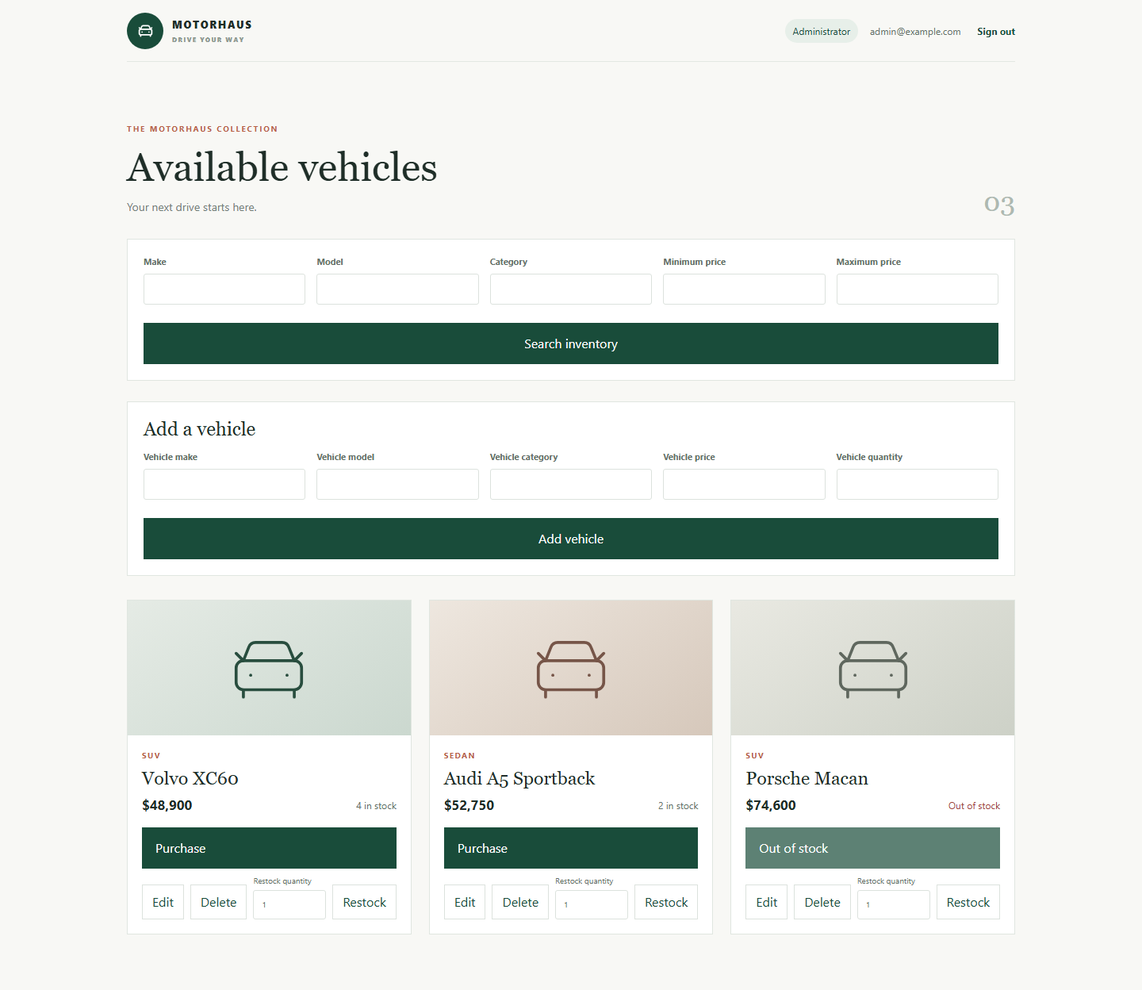
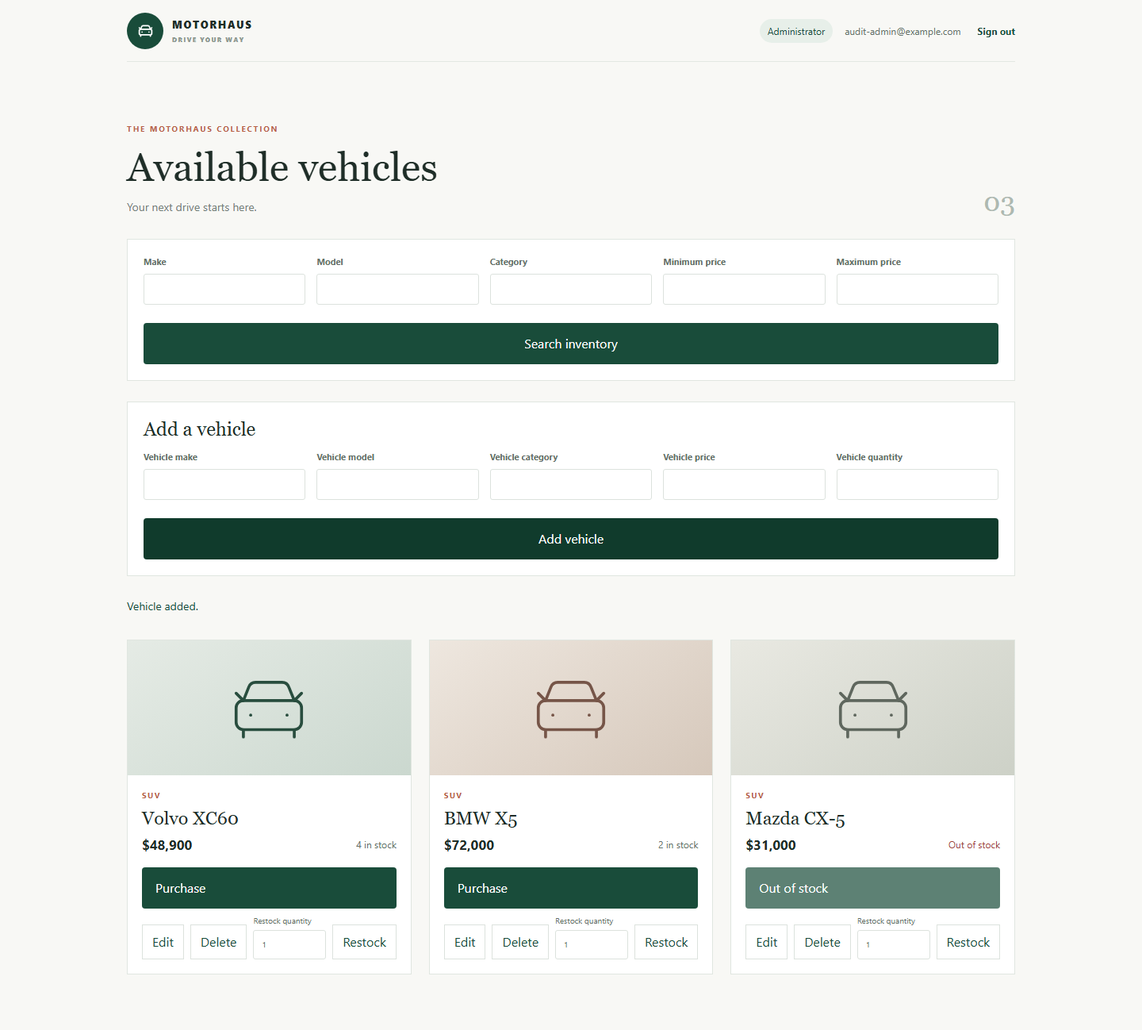
docs: complete final assessment audit

diff --git a/README.md b/README.md
@@ -2,6 +2,8 @@
 
 An inventory and purchasing application for a small car dealership. The React single page app uses a FastAPI JSON API, SQLAlchemy persistence, Alembic migrations, hashed account passwords, and signed bearer tokens.
 
+The public repository's default branch is `submission/tdd-kata`, so the repository root opens this submission.
+
 ## Screenshots
 
 Captured from the running app on the local development server:
@@ -17,7 +19,7 @@ Captured from the running app on the local development server:
 - `frontend/src`: React SPA, accessible forms, inventory search and admin workflows.
 - `.github/workflows/ci.yml`: backend and frontend checks on pushes and pull requests.
 
-Purchases use a single conditional SQL `UPDATE` (`quantity > 0`) so competing requests cannot decrement below zero. Restock also uses a conditional update and stock ceiling. SQLite is the local default; PostgreSQL is supported through SQLAlchemy and the included psycopg driver.
+Purchases use a single conditional SQL `UPDATE` (`quantity > 0`) so competing requests cannot decrement below zero. Restock also uses a conditional update and stock ceiling. SQLite is the local default and satisfies the persistent-database requirement. PostgreSQL configuration is optional and has not been tested.
 
 ## Run locally
 
@@ -31,16 +33,28 @@ py -3.12 -m venv .venv
 .\.venv\Scripts\Activate.ps1
 python -m pip install -r requirements.txt -r requirements-dev.txt
 $env:DATABASE_URL = "sqlite:///./inventory.db"
-$env:SECRET_KEY = "replace-with-a-long-random-secret"
-$env:BOOTSTRAP_ADMIN_EMAIL = "admin@example.com"
+$env:ENVIRONMENT = "development"
+# Optional in explicit development mode; production must provide a strong value.
+$env:SECRET_KEY = "development-key-change-me"
 $env:FRONTEND_ORIGIN = "http://localhost:5173"
 alembic upgrade head
+python -m app.admin_cli
 uvicorn app.main:app --reload
 ```
 
-Register using the configured bootstrap admin email to create the first administrator. Use another email for customer access. Set `DATABASE_URL=postgresql+psycopg://user:password@localhost:5432/dealership` for PostgreSQL. The default SQLite URL persists in `backend/inventory.db`.
+The offline admin command prompts for an email and password twice. It creates an administrator or promotes an existing account and sets the password entered at the prompt. Public registration always creates a customer, including when its email matches an administrator's address. Register customer accounts through the SPA or `POST /api/auth/register`.
 
-`FRONTEND_ORIGIN` configures the additional permitted browser origin; localhost and loopback Vite origins are included for development. Keep the secret key private and set `ENVIRONMENT=production` when deploying so a missing default secret fails closed.
+Configuration:
+
+| Variable | Local behavior | Production behavior |
+| --- | --- | --- |
+| `ENVIRONMENT` | Set explicitly to `development` to permit the local fallback key. | Defaults to the secure non-development policy when unset; set to `production`. |
+| `SECRET_KEY` | Optional only when `ENVIRONMENT=development`; set your own value to keep local tokens stable. | Required. Use at least 32 characters with at least 12 distinct characters; known defaults and placeholder text are rejected. |
+| `DATABASE_URL` | Defaults to persistent `sqlite:///./inventory.db` (`backend/inventory.db`). | Set to the chosen SQLAlchemy database URL. PostgreSQL uses `postgresql+psycopg://user:password@localhost:5432/dealership`; PostgreSQL was not tested. |
+| `FRONTEND_ORIGIN` | Defaults to `http://localhost:5173`; localhost and loopback Vite origins are also allowed. | Set to the deployed SPA origin. |
+| `VITE_API_URL` | Optional; empty uses the Vite `/api` proxy to `http://127.0.0.1:8000`. | Set the public API origin when the SPA and API are served separately. |
+
+To create a production key locally, run `python -c "import secrets; print(secrets.token_hex(32))"` and place the result in the deployment secret store. Never commit the generated key.
 
 Frontend (a second terminal):
 
@@ -54,28 +68,29 @@ Vite proxies `/api` to `http://127.0.0.1:8000` during local development. To use 
 
 ## API overview
 
-All routes are under `/api`. Registration is public; all inventory reads/writes and purchases require `Authorization: Bearer <token>`. Delete and restock require the administrator role.
+Registration and login are public. Every vehicle and inventory route requires `Authorization: Bearer <token>`. Delete and restock additionally require an administrator.
 
 | Method | Path | Access | Purpose |
 | --- | --- | --- | --- |
-| POST | `/auth/register` | Public | Register email/password |
-| POST | `/auth/login` | Public | OAuth form login; returns JWT and role flag |
-| GET | `/vehicles` | Authenticated | List or filter by make, model, category, min_price, max_price |
-| POST | `/vehicles` | Authenticated | Add vehicle |
-| PUT | `/vehicles/{id}` | Authenticated | Update vehicle |
-| DELETE | `/vehicles/{id}` | Admin | Remove vehicle |
-| POST | `/vehicles/{id}/restock` | Admin | Add stock |
-| POST | `/vehicles/{id}/purchase` | Authenticated | Decrement one available unit safely |
+| POST | `/api/auth/register` | Public | Register email/password; new accounts are customers |
+| POST | `/api/auth/login` | Public | OAuth form login; returns JWT and role flag |
+| GET | `/api/vehicles` | Authenticated | List inventory; supports `make`, `model`, `category`, `min_price`, and `max_price` filters |
+| GET | `/api/vehicles/search` | Authenticated | Search inventory by `make`, `model`, `category`, `min_price`, and `max_price` |
+| POST | `/api/vehicles` | Authenticated | Add vehicle |
+| PUT | `/api/vehicles/{id}` | Authenticated | Update vehicle |
+| DELETE | `/api/vehicles/{id}` | Admin | Remove vehicle |
+| POST | `/api/vehicles/{id}/restock` | Admin | Add stock within the configured stock limit |
+| POST | `/api/vehicles/{id}/purchase` | Authenticated | Decrement one available unit safely |
 
 Vehicle input validates non-empty make/model/category, positive price, integer quantity, bounded field sizes and unique database IDs. Out-of-stock purchases return HTTP 409; missing items return 404.
 
 ## Tests and evidence
 
-Run backend checks from `backend`: `$env:PYTHONPATH='.'; python -m pytest -q`, `ruff check app tests`, and `alembic upgrade head`. Run frontend checks from `frontend`: `pnpm test`, `pnpm lint`, `pnpm build`. Exact observed commands, results, warnings and currently unverified checks are in [TEST_REPORT.md](TEST_REPORT.md). Requirement evidence is mapped in [REQUIREMENTS_CHECKLIST.md](REQUIREMENTS_CHECKLIST.md). Actual test-first commit IDs and red/green outcomes are in [TDD_LOG.md](TDD_LOG.md).
+Run backend checks from `backend`: `$env:PYTHONPATH='.'; .\.venv\Scripts\python.exe -m pytest --cov=app --cov-report=term-missing`, `.\.venv\Scripts\ruff.exe check app tests`, and `$env:DATABASE_URL='sqlite:///./fresh-check.db'; .\.venv\Scripts\alembic.exe upgrade head`. Run frontend checks from `frontend`: `pnpm test`, `pnpm lint`, `pnpm build`. Exact observed commands, results, warnings and unverified checks are in [TEST_REPORT.md](TEST_REPORT.md). Requirement evidence is mapped in [REQUIREMENTS_CHECKLIST.md](REQUIREMENTS_CHECKLIST.md). Actual test-first commit IDs and red/green outcomes are in [TDD_LOG.md](TDD_LOG.md).
 
 ## My AI Usage
 
-ChatGPT helped prepare the implementation prompt. OpenAI Codex in the desktop app helped implement and test the project, including its API, migration, SPA, backend and frontend tests, CI, and evidence documents. Codex also ran the recorded checks and inspected the Git state. The tools used included PowerShell shell commands and patch editing, the workspace Python and pnpm runtimes, Playwright for genuine browser screenshots, the document-reading workflow for the supplied assessment, Git, and the GitHub connector to inspect repository metadata and Actions runs. `PROMPTS.md` contains the supplied link to the Codex build and verification conversation. No original shareable ChatGPT conversation record was supplied for `PROMPTS.md`. The Git commit trailers identify AI-assisted commits as `OpenAI Codex <ai@users.noreply.github.com>`.
+ChatGPT helped prepare the implementation prompt. OpenAI Codex in the desktop app helped implement and test the project, including its API, migrations, SPA, backend and frontend tests, CI, and evidence documents. Codex also ran the recorded checks, captured screenshots with Playwright, inspected Git state, and verified the GitHub repository and Actions results with the GitHub connector and the repository's saved Git credential. The tools used included PowerShell shell commands and patch editing, the workspace Python and pnpm runtimes, Playwright for genuine browser screenshots, the document-reading workflow for the supplied assessment, Git, and GitHub's authenticated API for repository settings. [PROMPTS.md](PROMPTS.md) contains the supplied link to the Codex build and verification conversation. No original shareable ChatGPT conversation record was supplied for `PROMPTS.md`. The Git commit trailers identify AI-assisted commits as `OpenAI Codex <ai@users.noreply.github.com>`.
 
 **Personal reflection (please review before submission):**
 

diff --git a/TEST_REPORT.md b/TEST_REPORT.md
@@ -36,17 +36,17 @@ Package-install warnings observed: deprecated `eslint@9.19.0` and transitive `wh
 
 GitHub Actions run [40179145568](https://github.com/shashank-bhat10/car-dealership-inventory-assessment/actions/runs/40179145568) on `ce37690`: frontend job passed; backend Ruff passed; backend pytest collection failed because `httpx` was missing; Alembic skipped. After pinning `httpx==0.28.1`, clean local `.venv` tests passed. GitHub Actions run [40179376846](https://github.com/shashank-bhat10/car-dealership-inventory-assessment/actions/runs/40179376846) on `591a679`: frontend job and backend Ruff passed; pytest collection failed again because the `app` package was not importable in the runner; Alembic skipped. Added job-level `PYTHONPATH: .`; run [40179459445](https://github.com/shashank-bhat10/car-dealership-inventory-assessment/actions/runs/40179459445) on `24f8d1d` passed both jobs. Backend Ruff passed, 19 tests passed with 97% coverage, Alembic passed; frontend install, 8 tests, lint, and production build passed.
 
-Warnings in successful CI run: Starlette's `anyio.abc.BlockingPortal` deprecation; GitHub runner Node.js deprecations from `actions/checkout@v4`, `actions/setup-python@v5`, `actions/setup-node@v4`, and `pnpm/action-setup@v4`; Node deprecations `DEP0040` (`punycode`) and `DEP0169` (`url.parse`) from action tooling. These warnings were not suppressed. Run [40179570241](https://github.com/shashank-bhat10/car-dealership-inventory-assessment/actions/runs/40179570241) on commit `fea340d32a758e95c9d01b8b184a6593d115a951` completed successfully; both backend and frontend jobs passed. That run is the last completed remote run before the final-audit commits. Local fresh SQLite migration passed. PostgreSQL service availability was not established; PostgreSQL behavior remains unverified.
+Warnings in successful CI run: Starlette's `anyio.abc.BlockingPortal` deprecation; GitHub runner Node.js deprecations from `actions/checkout@v4`, `actions/setup-python@v5`, `actions/setup-node@v4`, and `pnpm/action-setup@v4`; Node deprecations `DEP0040` (`punycode`) and `DEP0169` (`url.parse`) from action tooling. These warnings were not suppressed. Run [40179570241](https://github.com/shashank-bhat10/car-dealership-inventory-assessment/actions/runs/40179570241) on commit `fea340d32a758e95c9d01b8b184a6593d115a951` completed successfully; both backend and frontend jobs passed. Later successful runs were [40181495523](https://github.com/shashank-bhat10/car-dealership-inventory-assessment/actions/runs/40181495523) on `5e35b27` and [40182187248](https://github.com/shashank-bhat10/car-dealership-inventory-assessment/actions/runs/40182187248) on `efe77dd42af1f8d7ce04633127ebc50a03d7c8b3`. Run `40182187248` is the latest successful remote run before this local audit push. PostgreSQL service availability was not established; PostgreSQL behavior remains unverified.
 
 ## Final-audit local rerun (2026-10-25)
 
-Commands were run from the `backend` and `frontend` directories of branch `submission/tdd-kata` after the inventory retry and trailing-whitespace corrections:
+This earlier rerun was performed before the later security, migration, and final frontend audit additions:
 
 | Exact command | Observed result |
 | --- | --- |
 | `$env:PYTHONPATH='.'; .\.venv\Scripts\python.exe -m pytest -q` | **19 passed**, 1 upstream Starlette/AnyIO `BlockingPortal` deprecation warning, 4.85s. |
 | `.\.venv\Scripts\python.exe -m ruff check app tests` | **All checks passed!** |
-| `$env:DATABASE_URL='sqlite:///./fresh-final-audit-20261025-final2.db'; .\.venv\Scripts\python.exe -m alembic -c alembic.ini upgrade head` | **Passed**; applied `0001_initial` to a fresh SQLite file. PostgreSQL was not tested. |
+| `$env:DATABASE_URL='sqlite:///./fresh-final-audit-20261025-final2.db'; .\.venv\Scripts\python.exe -m alembic -c alembic.ini upgrade head` | **Passed** at that earlier point; applied `0001_initial` to a fresh SQLite file. The later final audit below supersedes this result and includes `0002_vehicle_constraints`. PostgreSQL was not tested. |
 | `pnpm test` | **14 passed**, 1 test file, 2.00s. |
 | `pnpm lint` | **Passed**, no findings. |
 | `pnpm build` | **Passed**, Vite transformed 1,579 modules; CSS 10.82 kB and JS 196.98 kB before gzip. |
@@ -54,7 +54,23 @@ Commands were run from the `backend` and `frontend` directories of branch `submi
 
 The final-audit test-first red run was `pnpm exec vitest run src/App.test.jsx`: **13 passed, 1 failed** at the new check that an inventory error must not display the empty state. After the error/retry implementation, the same command reported **14 passed**. The exact red and green commit pair is recorded in `TDD_LOG.md`. A later final branch-range diff check found two extra blank lines at EOF; they were removed, and the branch-range check was rerun. No PostgreSQL service test or screen-reader/device compatibility matrix was run.
 
-Commit [`5e35b27a58e0b5c4cf129e92bce4df6acf50a737`](https://github.com/shashank-bhat10/car-dealership-inventory-assessment/commit/5e35b27a58e0b5c4cf129e92bce4df6acf50a737) on `submission/tdd-kata` passed GitHub Actions run [40181495523](https://github.com/shashank-bhat10/car-dealership-inventory-assessment/actions/runs/40181495523), completed 2026-10-25. Both jobs succeeded: backend Ruff, pytest with coverage, and Alembic migration; frontend tests, lint, and production build. The final checklist cites this run. PostgreSQL was not tested.
+Commit [`5e35b27a58e0b5c4cf129e92bce4df6acf50a737`](https://github.com/shashank-bhat10/car-dealership-inventory-assessment/commit/5e35b27a58e0b5c4cf129e92bce4df6acf50a737) on `submission/tdd-kata` passed GitHub Actions run [40181495523](https://github.com/shashank-bhat10/car-dealership-inventory-assessment/actions/runs/40181495523). Run [40182187248](https://github.com/shashank-bhat10/car-dealership-inventory-assessment/actions/runs/40182187248) on `efe77dd42af1f8d7ce04633127ebc50a03d7c8b3` is the latest successful remote run before this audit push; both jobs succeeded. The local audit commits require a post-push run. PostgreSQL was not tested.
+
+## Final audit rerun (2026-10-25)
+
+These checks were run on the local `submission/tdd-kata` worktree after the source, test, and screenshot audit changes. The test/report documentation was updated afterward; no application code changed after these checks.
+
+| Exact command | Observed result |
+| --- | --- |
+| `$env:PYTHONPATH='.'; .\.venv\Scripts\python.exe -m pytest --cov=app --cov-report=term-missing` | **37 passed** in 24.71s; **94% coverage** (210 statements, 12 missed); one upstream Starlette `anyio.abc.BlockingPortal` deprecation warning. |
+| ` .\.venv\Scripts\ruff.exe check app tests` | **All checks passed!** |
+| `$env:DATABASE_URL='sqlite:///./final-audit-20261025.db'; .\.venv\Scripts\alembic.exe -c alembic.ini upgrade head` | **Passed** on a newly created SQLite database; applied `0001_initial` and `0002_vehicle_constraints`. |
+| `pnpm test` | **15 passed**, 1 test file, 2.50s. |
+| `pnpm lint` | **Passed**, ESLint reported no findings. |
+| `pnpm build` | **Passed**, Vite transformed 1,579 modules; CSS 11.63 kB and JS 197.37 kB before gzip. |
+| `git diff --check` | **Passed**; Git printed only line-ending conversion notices for edited Markdown files. |
+
+The refreshed `screenshots/admin-inventory.png` and `screenshots/customer-inventory.png` were captured with Playwright from the running local SPA and API; both images were opened and visually inspected. GitHub Actions run `40182187248` is the latest successful remote run as of this report update; it covers commit `efe77dd`, not the local audit commits. The post-push run must be checked separately. No PostgreSQL service test or screen-reader/device compatibility matrix was run.
 
 ## TDD evidence
 

diff --git a/REQUIREMENTS_CHECKLIST.md b/REQUIREMENTS_CHECKLIST.md
@@ -5,23 +5,26 @@ Status reflects checks actually run in this build; evidence paths are repository
 | Requirement | Evidence | Status |
 | --- | --- | --- |
 | FastAPI REST API | `backend/app/main.py` | Verified |
-| Persistent SQLite and migrations | `backend/app/database.py`, `backend/alembic/`, migration test | Verified |
+| Persistent SQLite and migrations | `backend/app/database.py`, Alembic revisions `0001_initial` and `0002_vehicle_constraints`, fresh-migration test | Verified |
 | Optional PostgreSQL configuration | SQLAlchemy URL and psycopg dependency; not tested. SQLite meets the persistent-database requirement. | Partial (optional configuration only) |
 | Registration and login | `backend/app/main.py`, `backend/tests/test_registration.py`, `test_login.py` | Verified |
+| Safe administrator provisioning | `backend/app/admin_cli.py`; public registration always assigns `is_admin=False`; CLI create/promote and password behavior tests | Verified |
 | Password hashing | pwdlib Argon2 integration and registration tests | Verified |
-| JWT authentication | signed HS256 expiry and authenticated dependencies | Verified |
-| Protected vehicle list/create/search/update | routes and `backend/tests/test_vehicles.py` | Verified |
-| Search filters make/model/category/min/max price | API query tests and SPA filter controls | Verified |
+| JWT authentication and secret configuration | signed HS256 expiry, `backend/app/security.py`, tests for missing/default/weak/placeholder/valid secrets and explicit local development | Verified |
+| Protected vehicle list/create/search/update | routes and `backend/tests/test_vehicles.py`, including anonymous requests to each protected vehicle route | Verified |
+| Search filters make/model/category/min/max price | individual API filter tests, combined range test, and SPA filter controls | Verified |
 | Admin-only delete/restock | admin dependency and `backend/tests/test_admin.py` | Verified |
-| Protected safe purchasing / no oversell | conditional stock update and `backend/tests/test_purchase.py` | Verified |
-| Unique identifiers and field validation | SQL primary key, Pydantic constraints, API validation tests | Verified |
+| Protected safe purchasing / no oversell | conditional stock update and `backend/tests/test_purchases.py` | Verified |
+| Unique identifiers and field validation | SQL primary key, Pydantic constraints, API validation tests, and database check constraints | Verified |
+| Database-enforced positive price and bounded stock | model `CheckConstraint`s, forward Alembic revision `0002_vehicle_constraints`, direct SQLite integrity tests | Verified |
 | React registration/login and inventory UI | `frontend/src/App.jsx`, `frontend/src/App.test.jsx` | Verified |
 | Purchase disabled at zero stock | dashboard control and UI test | Verified |
 | Admin add/update/delete/restock controls | dashboard workflows and `frontend/src/App.test.jsx` POST add, PUT edit, DELETE, POST restock request/outcome tests | Verified |
-| Responsive/accessibility/loading/empty/error states | `frontend/src/style.css`, semantic labels/roles and retry flow in `App.jsx`; loading, empty, error/retry tests in `App.test.jsx` | Partial (responsive CSS, labels, focus states, and states are implemented; no automated screen-reader or device matrix) |
+| Tailwind use in the SPA | `@tailwindcss/vite`, Tailwind import, layout/form/button utilities in `frontend/src/App.jsx`, class test and production build | Verified |
+| Responsive/accessibility/loading/empty/error states | responsive rules in `frontend/src/style.css`, semantic labels/roles and retry flow in `App.jsx`; loading/empty/error-retry tests; screenshots visually inspected at desktop size | Partial (no automated screen-reader audit or multi-device matrix) |
 | SPA/API browser origin access | configurable `FRONTEND_ORIGIN` CORS middleware and `backend/tests/test_cors.py` | Verified |
 | Backend and frontend tests | test suites in `backend/tests` and `frontend/src` | Verified |
-| CI tests, lint and production build | `.github/workflows/ci.yml`, GitHub Actions run `40181495523` on `5e35b27a58e0b5c4cf129e92bce4df6acf50a737`; backend and frontend jobs passed | Verified |
-| Red–Green–Refactor commit evidence | `TDD_LOG.md`, actual branch history | Verified (test-first red/green commits and a separate lint-driven refactor; no unhelpful refactor commits were added) |
-| Screenshots from running application | `screenshots/customer-inventory.png`, `screenshots/admin-inventory.png` | Verified (captured from running local SPA/API with Playwright and visually inspected) |
-| Genuine prompt record | `PROMPTS.md` contains the user-supplied Codex build and verification conversation link, confirmed by the user to open without sign-in | Verified |
+| CI tests, lint and production build | `.github/workflows/ci.yml`; latest remote run [40182187248](https://github.com/shashank-bhat10/car-dealership-inventory-assessment/actions/runs/40182187248) passed on `efe77dd42af1f8d7ce04633127ebc50a03d7c8b3`; the local audit commits are not pushed yet | Partial (latest remote snapshot verified; this audit's post-push run remains to be checked) |
+| Red–Green–Refactor commit evidence | `TDD_LOG.md`, actual branch history, separate failing-test and implementation commits for final security, database, and Tailwind fixes | Verified; earlier history caveats are recorded in `TDD_LOG.md` |
+| Screenshots from running application | `screenshots/customer-inventory.png`, `screenshots/admin-inventory.png`; recaptured from the running local SPA/API after Tailwind changes and visually inspected | Verified |
+| Genuine prompt records | `PROMPTS.md` contains the supplied Codex build conversation link. No original ChatGPT prompt-planning record was supplied. | Partial (Codex record is genuine; the ChatGPT record remains unavailable) |

diff --git a/TDD_LOG.md b/TDD_LOG.md
@@ -31,3 +31,17 @@ The initial full-page browser captures exposed that the inventory-specific style
 GitHub Actions run `40179145568` on commit `ce37690` produced a real red result: Ruff and the frontend job passed, but backend test collection failed in six test modules because `httpx` was absent from the declared development requirements. Coverage emitted `no-data-collected` as a consequence. Added pinned `httpx` as a test dependency; this is a configuration fix for the already test-first API suite, and a new CI run will verify it in a clean runner.
 
 After adding `httpx==0.28.1`, the declared dependencies were installed into a clean project `.venv`; `PYTHONPATH=. pytest -q` then reported **19 passed, 1 upstream warning**, `ruff check app tests` passed, and Alembic completed against the configured check database. GitHub Actions run `40179376846` verified the dependency but failed test collection again because `app` was not importable from the runner's `sys.path`; the frontend job and Ruff passed. After setting job-level `PYTHONPATH: .`, run `40179459445` on `24f8d1d` passed both backend and frontend jobs: 19 backend tests passed at 97% coverage, Ruff passed, migrations passed, and frontend tests/lint/build all passed. Upstream Starlette/AnyIO and GitHub runner Node.js deprecation warnings were present.
+
+## Final audit changes (2026-10-25)
+
+| Behavior or evidence | Test-first commit and observed red result | Implementation commit and observed green result |
+| --- | --- | --- |
+| Public registration cannot grant admin; offline CLI can create/promote admins | `7683046`; `python -m pytest -q tests/test_registration.py tests/test_login.py tests/test_admin_provisioning.py`: **4 failed, 6 passed**, including two promotion assertions returning `true` and two missing-CLI failures; one upstream Starlette/AnyIO warning. | `1b65305`; focused auth/admin/provisioning/security suite: **23 passed**, one upstream warning. The CLI was also run interactively against a fresh migrated SQLite database and printed `Administrator provisioned: audit-admin@example.com`. |
+| Promotion applies the password entered in the offline CLI | `675d52b`; `python -m pytest -q tests/test_admin_provisioning.py`: **1 failed, 1 passed** because the entered password was not applied to an existing account. | `1b65305`; both provisioning tests passed in the 23-test focused run above. |
+| JWT startup fails closed without explicit development mode and rejects weak/placeholder secrets | `734513c`; `python -m pytest -q tests/test_security_config.py` against a clean `675d52b` checkout with the test file applied: **4 failed, 4 passed** in 9.44s. Missing environment and short, repeated, and placeholder production secrets were accepted. | `1b65305`; all seven startup configuration tests passed in the 23-test focused run. Explicit development mode remains practical for local use. |
+| Database rejects nonpositive prices and negative/over-limit stock | `f838012`; `python -m pytest -q tests/test_vehicles.py tests/test_migrations.py`: **5 failed, 4 passed** in 2.55s with one upstream warning; both metadata-created and migrated SQLite tables accepted invalid rows. | `fc09024`; same focused command: **9 passed** in 2.39s with one upstream warning. Revision `0002_vehicle_constraints` adds checks without rewriting `0001_initial`. |
+| Tailwind classes are applied to representative layout, form, and button elements | `ba8acfe`; `pnpm exec vitest run src/App.test.jsx`: **1 failed, 14 passed** in 1.71s because expected utilities were absent from rendered elements. | `da7aca7`; focused test: **15 passed** in 1.69s; `pnpm lint` passed; `pnpm build` passed (1,579 modules). |
+
+Coverage additions for independent filters, every protected vehicle route, and missing restock IDs are in `8aaf44f`; focused vehicle/admin tests reported **15 passed** with one upstream warning and Ruff passed. They exercise existing routes rather than claim new behavior. The route-test fixture was later simplified in `afd536c` so admin-only endpoint tests seed an administrator directly instead of relying on the provisioning feature under test; focused admin tests then reported **5 passed**, one upstream warning, and Ruff passed.
+
+Integrity note: the first JWT test drafts in `a60f6f6` and `a27709f` imported `app.security` before that helper existed in branch history. Those drafts are not counted as red evidence. They were replaced by startup-level subprocess tests in `734513c`, which were run against a clean parent checkout before `1b65305` implemented the policy. No commits were rewritten or backdated.
